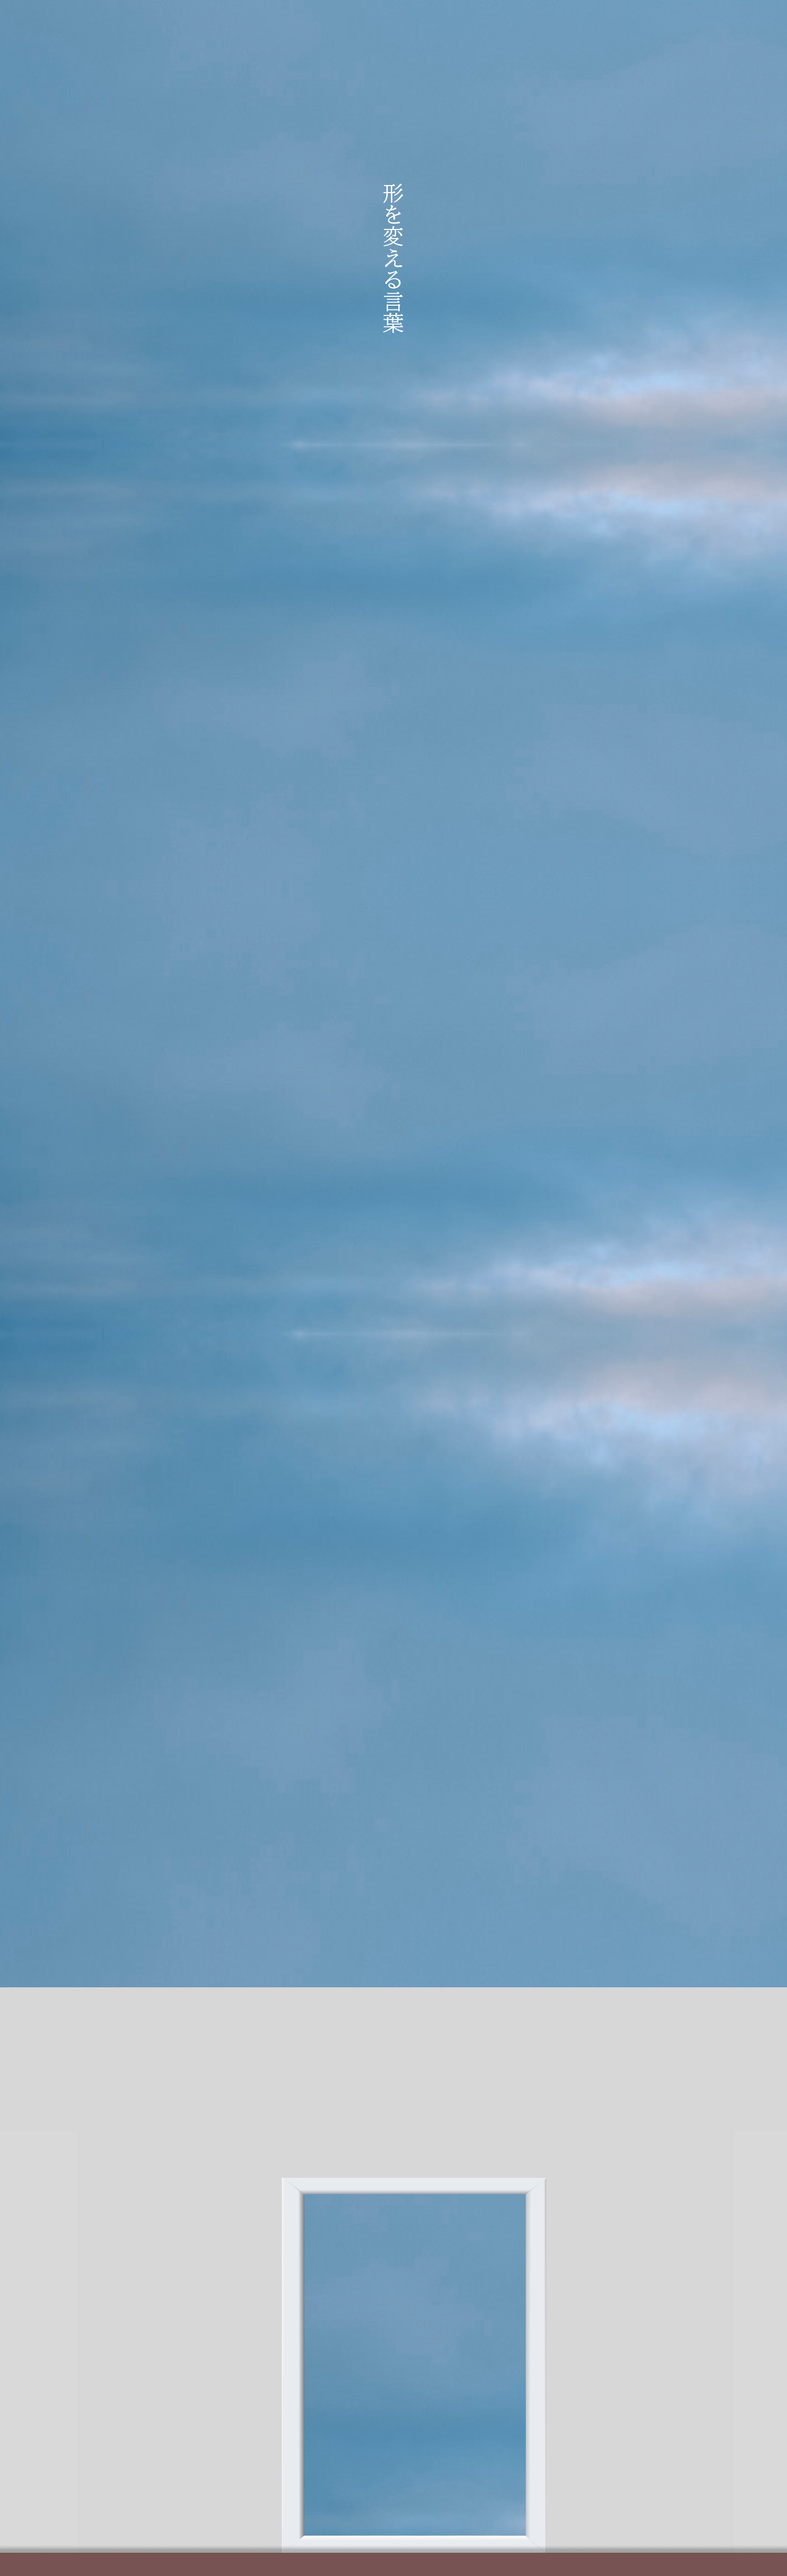
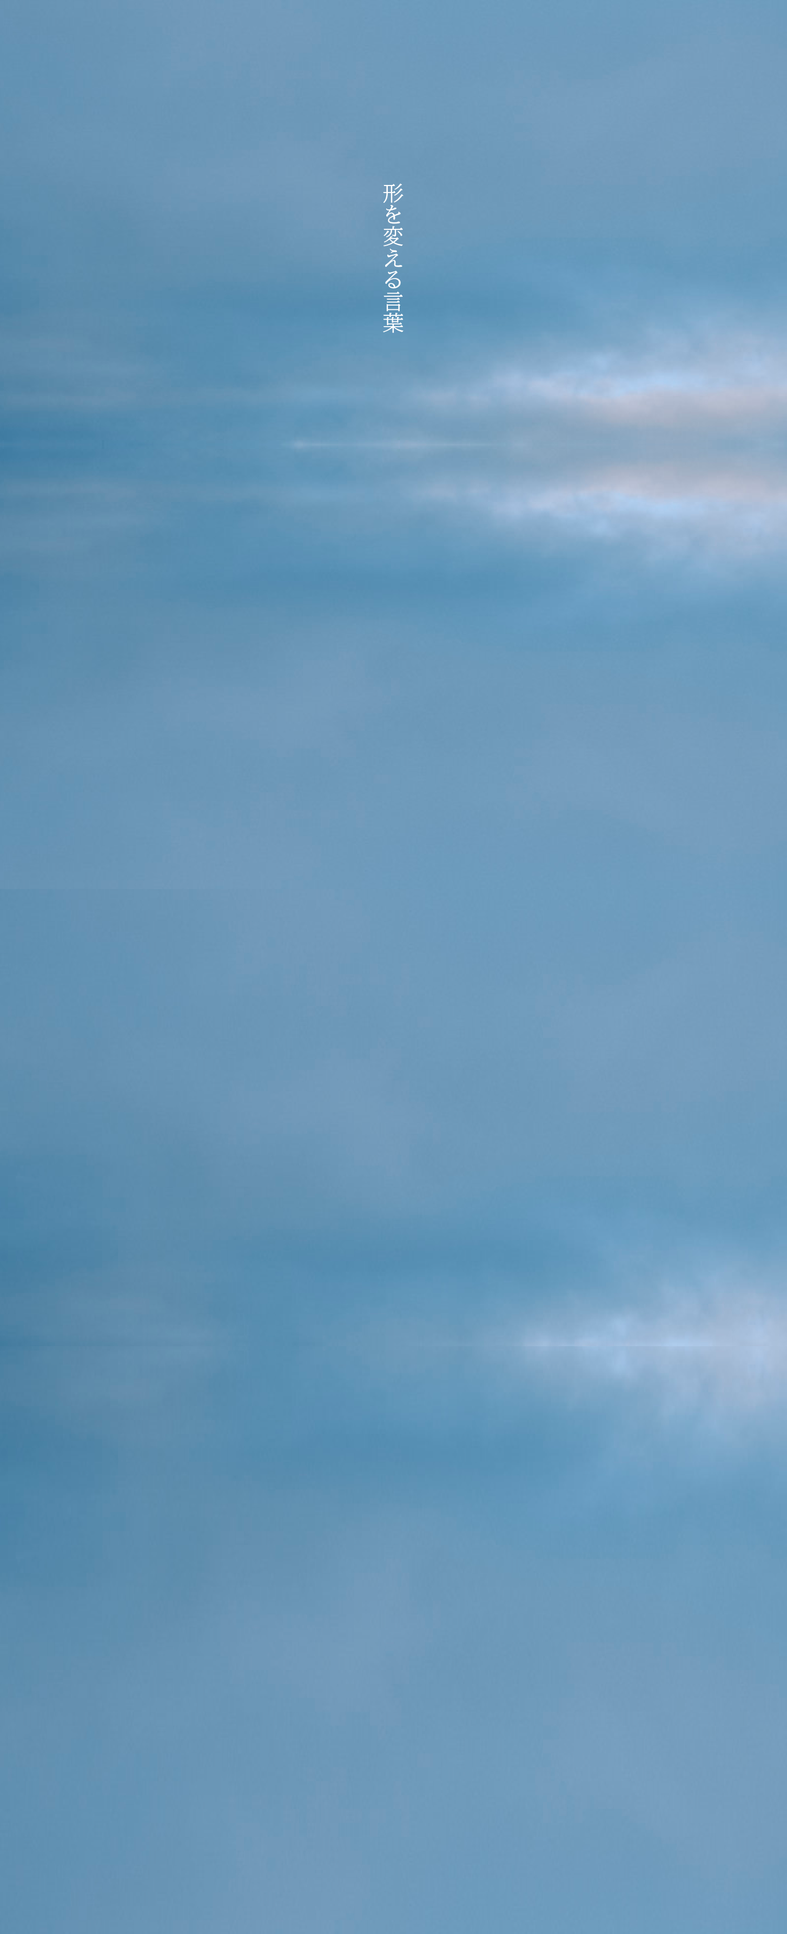
雨

diff --git a/docs/script.js b/docs/script.js
@@ -1,35 +1,69 @@
-const dropCount = 40;
 const body = document.body;
 
-for (let i = 0; i < dropCount; i=i+1) {
-  const drop = document.createElement('div');
-  drop.classList.add('drop');
+// === 1. しずく（左右に傾きながら落ちる） ===
+for (let i = 0; i < 10; i++) {
+  const shizuku = document.createElement('div');
+  shizuku.classList.add('drop');
+  shizuku.style.backgroundImage = "url('img/shizuku.png')";
 
-  // 画像とアニメーションを分岐
-  const isShizuku = Math.random() < 0.5;
-  const image = isShizuku ? "img/shizuku.png" : "img/ame.png";
-  drop.style.backgroundImage = `url('${image}')`;
+  // 表示位置（1200pxから）＆左右0〜100pxの範囲
+  shizuku.style.top = '1200px';
+  const x = Math.random() * 500;
+  shizuku.style.left = `${x}px`;
 
-  const x = Math.random() * window.innerWidth;
-  const duration = isShizuku
-    ? 10 + Math.random() * 10 // ゆっくり
-    : 5 + Math.random() * 3;  // 速め
-  const delay = Math.random() * 5;
-  const size = isShizuku
-    ? 40 + Math.random() * 10 // しずくはやや大きめ
-    : 40 + Math.random() * 20;
+  // サイズとアニメーション
+  const size = 50 + Math.random() * 30;
+  shizuku.style.width = `${size}px`;
+  shizuku.style.height = `${size}/4px`;
+  shizuku.style.animation = `fallShizuku ${8 + Math.random() * 4}s ease-in-out infinite`;
+  shizuku.style.animationDelay = `${Math.random() * 3}s`;
 
-  drop.style.left = `${x}px`;
-  drop.style.width = `${size}px`;
-  drop.style.height = `${size}px`;
-
-  // アニメーションと出発位置を分ける
-  drop.style.animation = `${isShizuku ? 'fallDrop' : 'fallRain'} ${duration}s linear infinite`;
-  drop.style.animationDelay = `${delay}s`;
-  drop.style.top = isShizuku ? '1300px' : '0';
-
-  body.appendChild(drop);
+  body.appendChild(shizuku);
 }
 
+// === 2. suiteki（水滴：止まる→落ちる） ===
+for (let i = 0; i < 10; i++) {
+  const suiteki = document.createElement('div');
+  suiteki.classList.add('drop');
+  suiteki.style.backgroundImage = "url('img/suiteki.png')";
 
- 
+  // 表示位置：2470pxから
+  suiteki.style.top = '2200px';
+
+  // 左右80px〜(画面幅 - 80px) の範囲
+  const x = 80 + Math.random() * (window.innerWidth - 160);
+  suiteki.style.left = `${x}px`;
+
+  const size = 30 + Math.random() * 30;
+  suiteki.style.width = `${size}px`;
+  suiteki.style.height = `${size}px`;
+
+  suiteki.style.animation = `floatSuiteki ${4 + Math.random() * 4}s ease-in-out infinite`;
+  suiteki.style.animationDelay = `${Math.random() * 3}s`;
+
+  body.appendChild(suiteki);
+}
+
+// === 3. ame：2470pxより下に降るが、madoの裏に置く ===
+for (let i = 0; i < 20; i++) {
+  const ame = document.createElement('div');
+  ame.classList.add('drop');
+  ame.style.backgroundImage = "url('img/ame.png')";
+
+  // 表示位置：2470pxから
+  ame.style.top = '2470px';
+
+  const x = Math.random() * window.innerWidth;
+  ame.style.left = `${x}px`;
+
+  const size = 20 + Math.random() * 20;
+  ame.style.width = `${size}px`;
+  ame.style.height = `${size}px`;
+
+  // 雨はまっすぐ落ちる簡易アニメーション
+  ame.style.animation = `fallShizuku ${5 + Math.random() * 3}s linear infinite`;
+  ame.style.animationDelay = `${Math.random() * 3}s`;
+
+  ame.style.zIndex = "0"; // madoより下に表示されるように
+  body.appendChild(ame);
+}

diff --git a/docs/style.css b/docs/style.css
@@ -1,51 +1,71 @@
 
 .haikei{
-  margin: 0;
   background-size: cover;          /* 画面全体にぴったり */
   background-position: center;     /* 中央に配置 */
 }
 
 
 
-.drop {
+/* しずく：左右に傾きながら落ちる */
+@keyframes fallShizuku {
+  0% {
+    transform: translateY(1200px) rotate(-45deg);
+    opacity: 1;
+  }
+  50% {
+    transform: translateY(1600px) rotate(45deg);
+  }
+  100% {
+    transform: translateY(2000px) rotate(-45deg);
+    opacity: 0.4;
+  }
+}
+
+/* suiteki：止まったりスッと動いたり */
+@keyframes floatSuiteki {
+  0% {
+    transform: translateY(2470px);
+    opacity: 1;
+  }
+  20% {
+    transform: translateY(2470px); /* 止まる */
+  }
+  40% {
+    transform: translateY(2520px);
+  }
+  60% {
+    transform: translateY(2620px);
+  }
+  80% {
+    transform: translateY(2670px);
+  }
+  100% {
+    transform: translateY(2720px);
+    opacity: 0;
+  }
+}
+
+/* 窓画像を配置して重ね順上に */
+.mado-wrapper {
   position: absolute;
-  background-size: contain;
-  background-repeat: no-repeat;
-  z-index: 1;
-  pointer-events: none;
+  top: 2800px;
+  
+  width: 100%;
+  display: flex;
+  justify-content: center;
+  z-index: 10;
 }
 
-/* 雨の直線落下 */
-@keyframes fallRain {
-  0% {
-    top: -60px;
-    opacity: 1;
-  }
-  100% {
-    top: 200vh;
-    opacity: 0.3;
-  }
-}
 
-/* しずくのゆっくり＆ゆらゆら落下（1200pxスタート） */
-@keyframes fallDrop {
-  0% {
-    top: 1300px;
-    transform: translateX(0px);
-    opacity: 1;
-  }
-  100% {
-    top: 1600px; /* ページ下まで落ちる距離を想定 */
-    transform: translateX(30px); /* ゆらゆら移動 */
-    opacity: 1;
-  }
-}
 
 
 
 .hana{
   position:absolute;
-  top:1200px;
+  top:2000px;
   left:-100px;
   right:0px;
+
 }
+
+

diff --git a/docs/index.html b/docs/index.html
@@ -19,6 +19,9 @@
      <img src="img/hana.png">
    </div>
 
+   <div class="mado-wrapper">
+     <img src="img/mado.png">
+   </div>
    
     
 </body>
